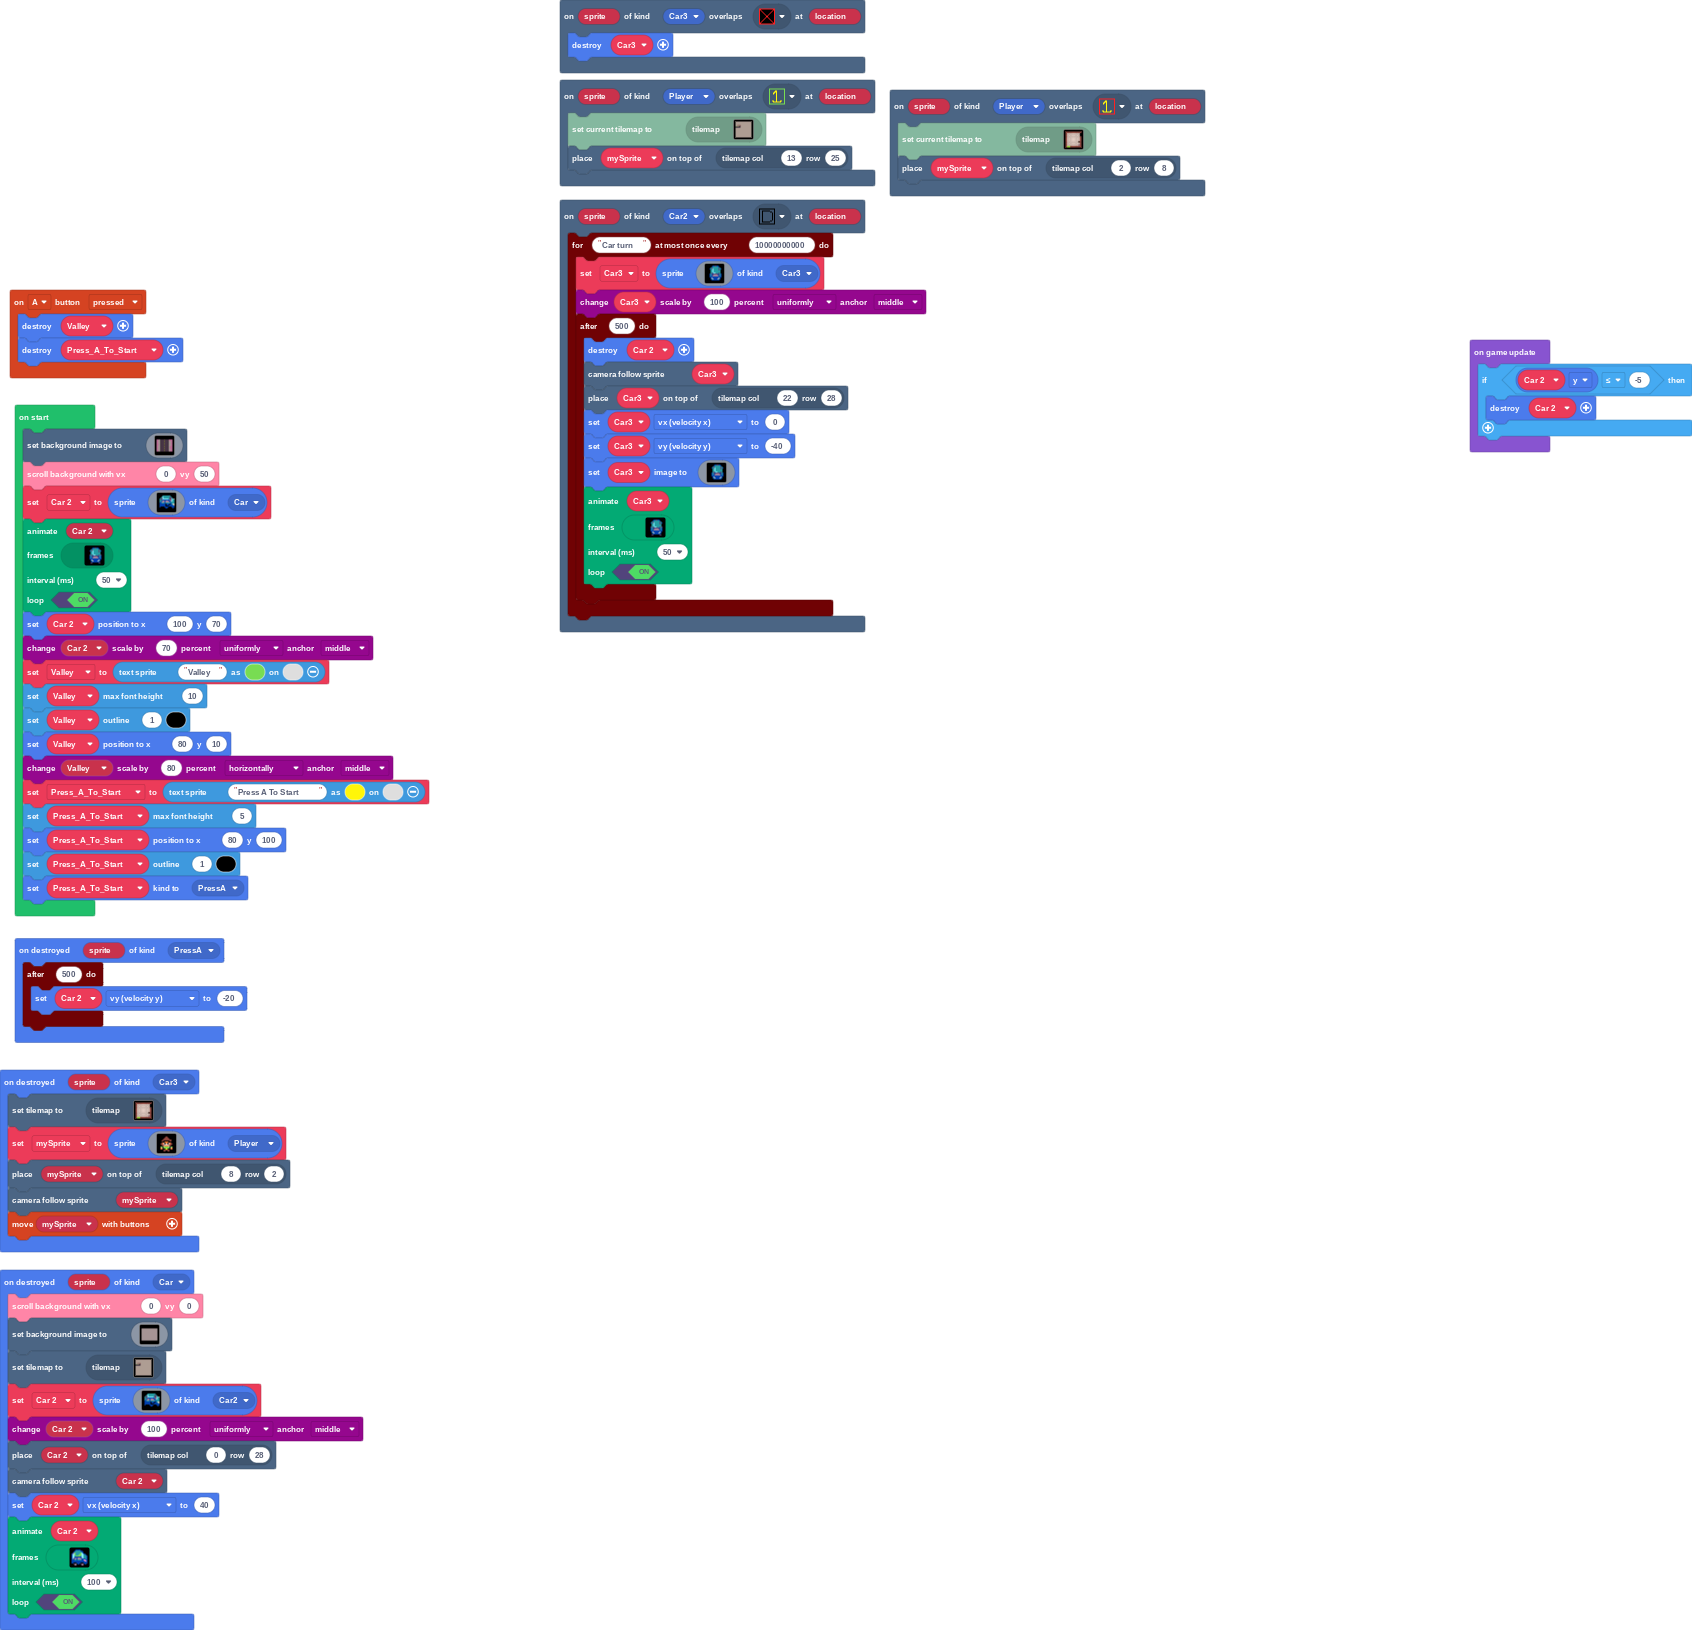
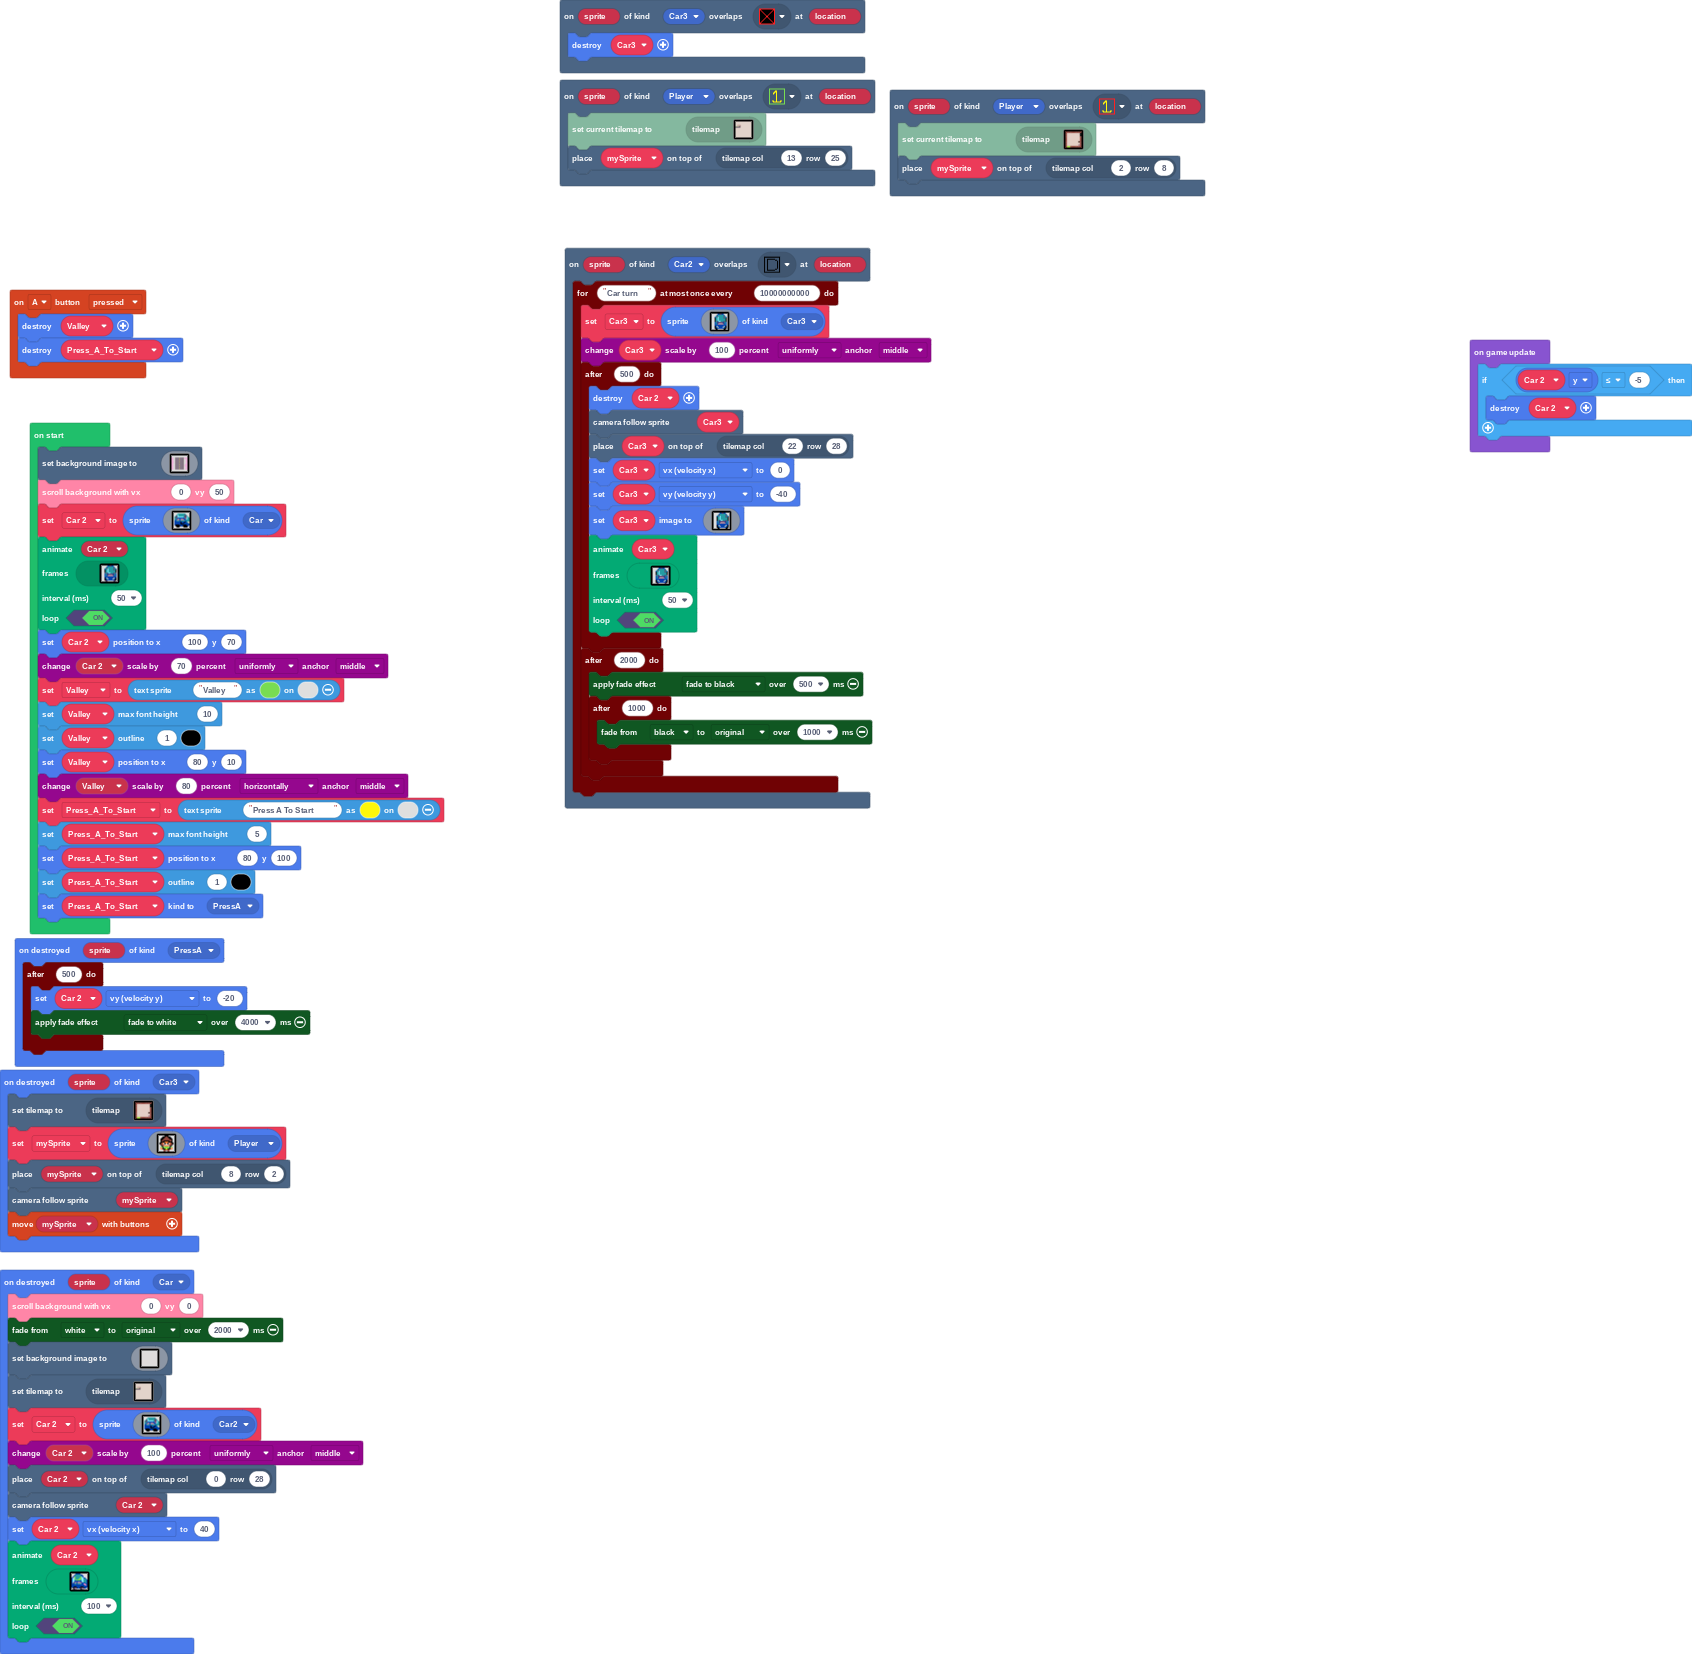
Update pxt.json, main.blocks, main.ts

Changed region(s): [[0.0, 0.1534, 0.2766, 0.9816], [0.3073, 0.0, 0.7069, 0.4908], [0.8605, 0.184, 1.0, 0.2761]]

diff --git a/main.ts b/main.ts
@@ -14,6 +14,7 @@ scene.onOverlapTile(SpriteKind.Car3, assets.tile`myTile2`, function (sprite, loc
 sprites.onDestroyed(SpriteKind.PressA, function (sprite) {
     timer.after(500, function () {
         Car_2.vy = -20
+        color.FadeToWhite.startScreenEffect(4000)
     })
 })
 controller.A.onEvent(ControllerButtonEvent.Pressed, function () {
@@ -46,6 +47,7 @@ sprites.onDestroyed(SpriteKind.Car3, function (sprite) {
 })
 sprites.onDestroyed(SpriteKind.Car, function (sprite) {
     scroller.scrollBackgroundWithSpeed(0, 0)
+    color.startFade(color.White, color.originalPalette, 2000)
     scene.setBackgroundImage(img`
         dddddddddddddddddddddddddddddddddddddddddddddddddddddddddddddddddddddddddddddddddddddddddddddddddddddddddddddddddddddddddddddddddddddddddddddddddddddddddddddddd
         dddddddddddddddddddddddddddddddddddddddddddddddddddddddddddddddddddddddddddddddddddddddddddddddddddddddddddddddddddddddddddddddddddddddddddddddddddddddddddddddd
@@ -334,6 +336,12 @@ scene.onOverlapTile(SpriteKind.Car2, assets.tile`myTile12`, function (sprite, lo
             50,
             true
             )
+        })
+        timer.after(2000, function () {
+            color.FadeToBlack.startScreenEffect(500)
+            timer.after(1000, function () {
+                color.startFade(color.Black, color.originalPalette, 1000)
+            })
         })
     })
 })
